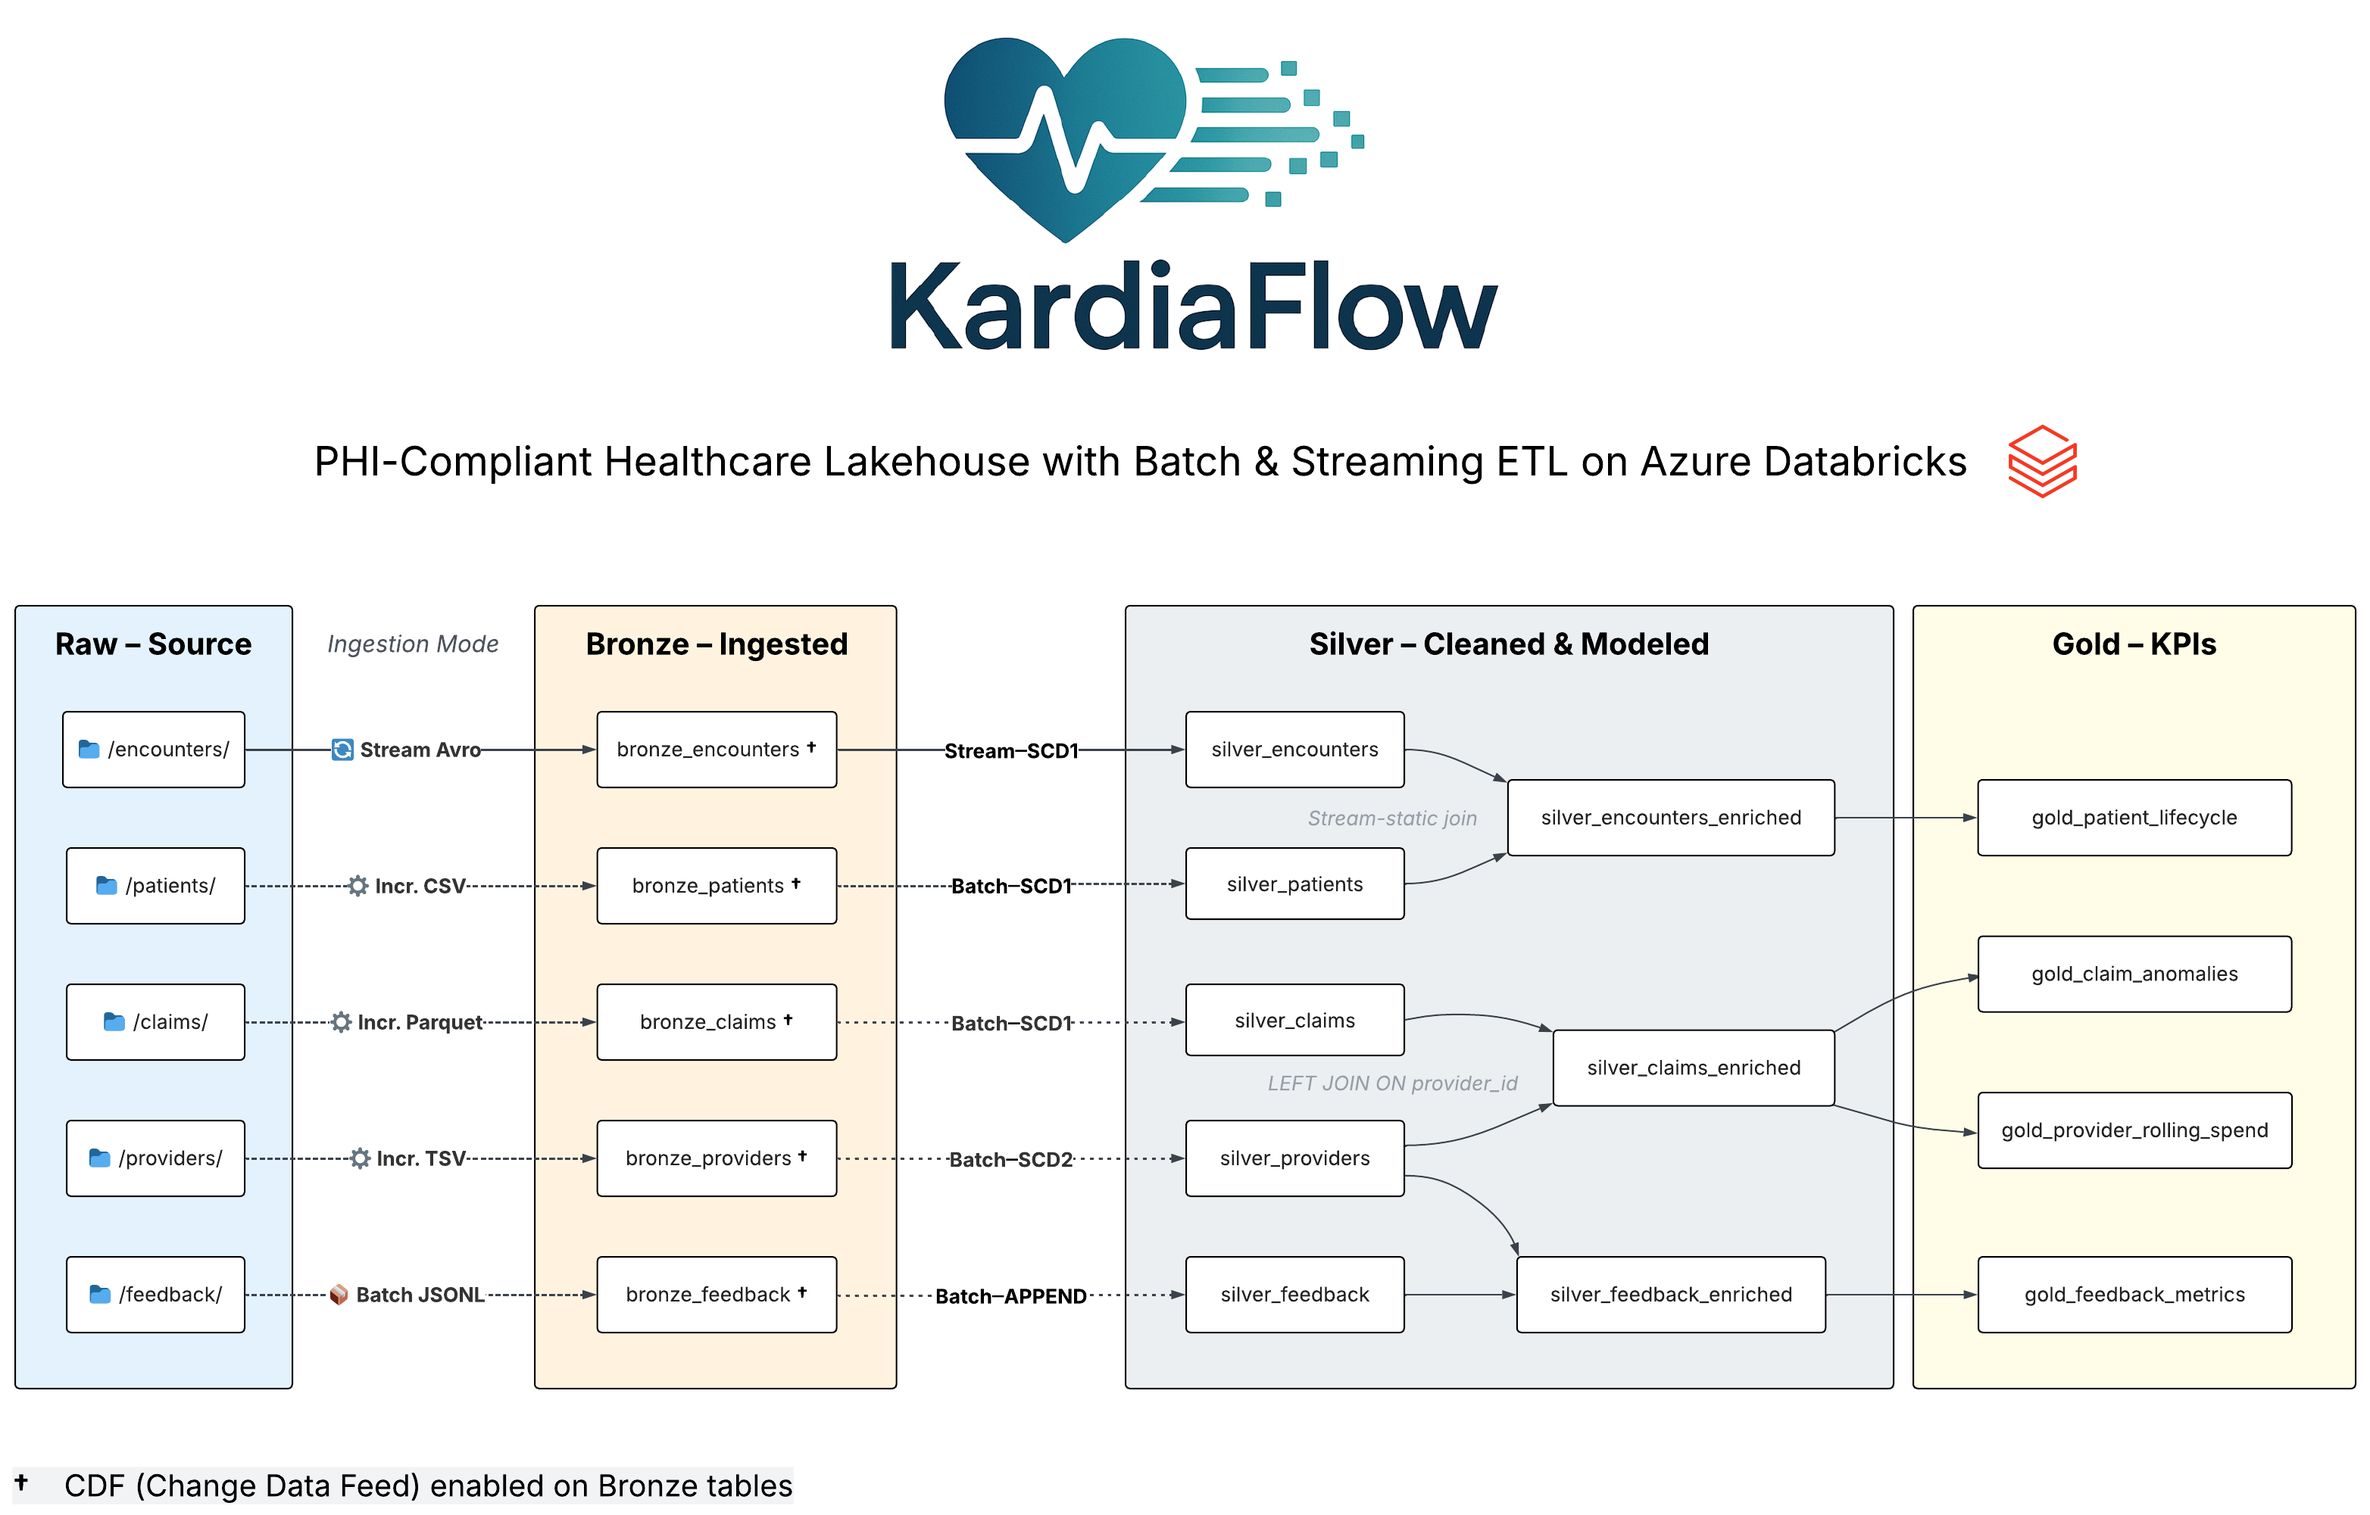
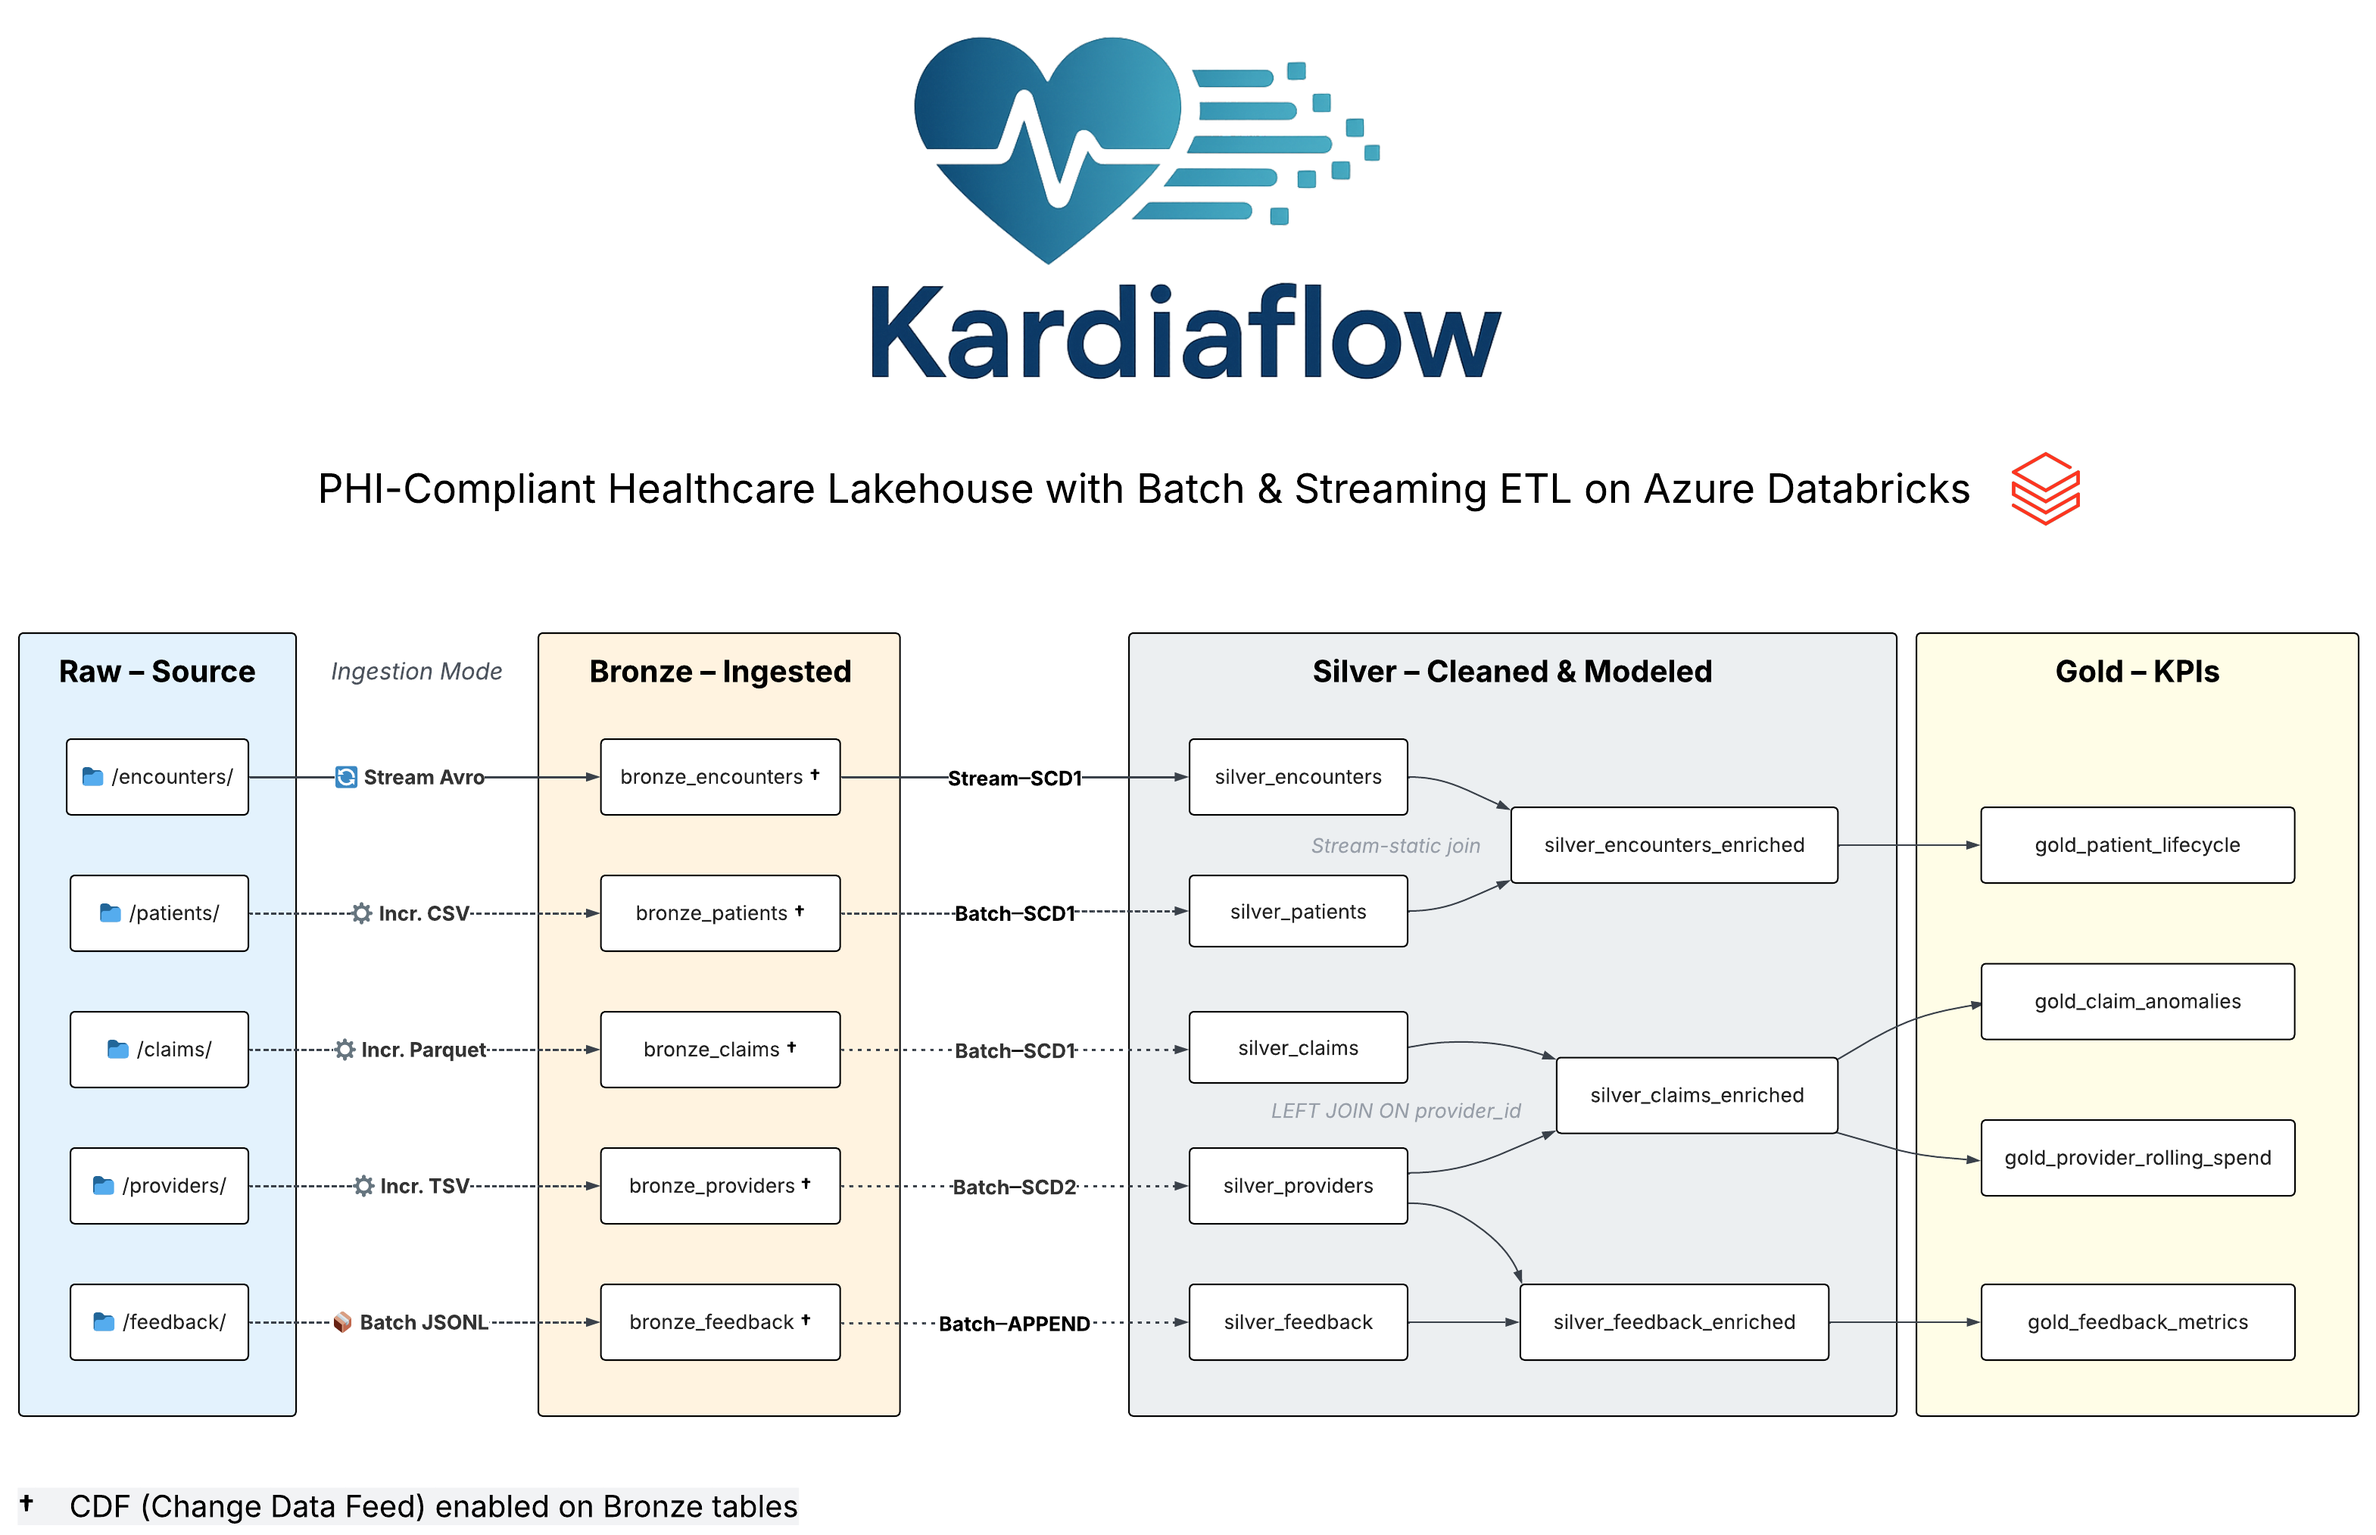
Change name from KardiaFlow to Kardiaflow

diff --git a/docs/CHANGELOG.md b/docs/CHANGELOG.md
@@ -1,4 +1,4 @@
-# KardiaFlow Project — Changelog
+# Kardiaflow Project — Changelog
 
 ## 2025-07-23
 
@@ -11,7 +11,7 @@ badges, trust scores, freshness labels).
 The specification outlines QF’s goals, architecture (Evidence Bundle + Proof Indicators),
 implementation phases, and metadata schema (e.g., `dq_score`, `fingerprint`, `masked_fields`).
 
-This marks the beginning of integrating PoD into KardiaFlow as a first-class trust communication layer.
+This marks the beginning of integrating PoD into Kardiaflow as a first-class trust communication layer.
 
 Refactory notebook directory. Each Medallion layer now has its own folder, with pipeline
 folders within each layer.
@@ -146,7 +146,7 @@ on ClaimID, and moved the merge logic into a clean upsert_to_silver function.
 ## 2025-07-15
 
 Implemented and validated the full Silver and Gold layers of the claims and providers
-pipeline in KardiaFlow. The Silver layer includes a Type-1 upsert for claims using CDF
+pipeline in Kardiaflow. The Silver layer includes a Type-1 upsert for claims using CDF
 and a Type-2 SCD merge for providers to preserve history.
 
 Added three Gold tables using a SQL-based notebook. The hourly Claims table aggregates
@@ -371,7 +371,7 @@ The patients + encounters pipeline now matches the intended design and is fully 
 
 ## 2025-06-29
 
-Completed the patients branch of the KardiaFlow pipeline.  
+Completed the patients branch of the Kardiaflow pipeline.  
 * Created dedicated landing folders (`dbfs:/kardia/raw/patients/`, `…/encounters/`) plus shared roots for schema tracking (`/kardia/_schemas/`) and stream checkpoints (`/kardia/_checkpoints/`).  
 * Added a 10-row smoke test file.
 * Implemented an Auto Loader Bronze stream with a fixed `StructType`, schema-drift tracking, and `delta.
@@ -404,7 +404,7 @@ dashboarding.
 
 Raw -> Gold View Pipeline Complete (in local Dev)
 
-Today we finalized the KardiaFlow architecture, integrating batch and streaming
+Today we finalized the Kardiaflow architecture, integrating batch and streaming
 PHI-compliant ETL paths and clarifying ingestion options like Auto Loader and
 COPY INTO. We validated a raw 100-row CSV, ingested it into a Bronze Delta
 table with Change Data Feed enabled, then transformed it to a schema-enforced,
@@ -415,7 +415,7 @@ runs seamlessly in both local and Databricks environments.
 
 ## 2025-06-22
 
-Completed Phase 1 and began Phase 2 of KardiaFlow by deploying safe,
+Completed Phase 1 and began Phase 2 of Kardiaflow by deploying safe,
 cost-controlled infrastructure and validating an initial data pipeline run.
 Used `deploy.bicep` to provision Azure Databricks (public-only, no VNet),
 Key Vault (soft-delete enabled, purge protection off), and Azure Data Factory.
@@ -441,7 +441,7 @@ fast iteration, and teardown-safe development.
 
 After uncovering substantial and silently accumulating costs tied to ADLS Gen2
 transaction billing, NAT Gateway persistence, and unremovable infrastructure
-triggered by Unity Catalog's Access Connector, the KardiaFlow environment
+triggered by Unity Catalog's Access Connector, the Kardiaflow environment
 (`kardiaflow-rg`) was systematically dismantled. Despite having Owner-level
 permissions, key resources remained locked behind deny assignments automatically
 applied during Unity Catalog provisioning. This prevented deletion of the
@@ -559,7 +559,7 @@ Performance-wise, the script successfully ingested over **133,000** patient reco
 
 ## 2025-05-29
 
-Today marked the foundational setup of the KardiaFlow project’s infrastructure and datasets. An Azure account was created and provisioned with both **Azure Data Factory** and **Azure Databricks**, using the East US region to avoid quota limitations. These services will form the backbone of our orchestration and transformation layers.
+Today marked the foundational setup of the Kardiaflow project’s infrastructure and datasets. An Azure account was created and provisioned with both **Azure Data Factory** and **Azure Databricks**, using the East US region to avoid quota limitations. These services will form the backbone of our orchestration and transformation layers.
 
 Simultaneously, the local development environment was established using Docker containers for **PostgreSQL**, **MongoDB**, **Oracle XE**, and **SQL Server**. Each of these databases was configured to simulate realistic hybrid healthcare systems, and connection scripts were written in Python to validate access to all services. These scripts were organized under `automation/db_checks/`, and results were logged to `docs/environment_check.md`.
 

diff --git a/docs/POSTMORTEM.md b/docs/POSTMORTEM.md
@@ -2,7 +2,7 @@
 
 ## Incident Summary
 
-In May 2025, an early version of the KardiaFlow project was deployed to Azure as part of a simulated healthcare data engineering pipeline. This version provisioned persistent infrastructure including Azure Data Lake Storage Gen2 (ADLS), Azure Data Factory (ADF), Databricks, and network-bound services such as a Self-Hosted Integration Runtime (SHIR). 
+In May 2025, an early version of the Kardiaflow project was deployed to Azure as part of a simulated healthcare data engineering pipeline. This version provisioned persistent infrastructure including Azure Data Lake Storage Gen2 (ADLS), Azure Data Factory (ADF), Databricks, and network-bound services such as a Self-Hosted Integration Runtime (SHIR). 
 
 Over the course of several development iterations, the project accrued over **$250 USD in unexpected Azure charges**—despite only handling synthetic CSV files and running short-term tests.
 
@@ -42,13 +42,13 @@ Over the course of several development iterations, the project accrued over **$2
 
 I destroyed all existing RGs and terminated the Azure subscription to prevent further leakage. I saved all scripts and synthetic datasets locally. A new Azure subscription was created with zero resources provisioned.
 
-I then rearchitected KardiaFlow from the ground up with **cost hygiene and teardown safety as first-class goals**.
+I then rearchitected Kardiaflow from the ground up with **cost hygiene and teardown safety as first-class goals**.
 
 ---
 
 ## Redesign Strategy: “Safe Mode Data Engineering”
 
-The new KardiaFlow project is designed around several non-negotiable constraints:
+The new Kardiaflow project is designed around several non-negotiable constraints:
 
 | Constraint                        | Implementation                                                                 |
 |----------------------------------|--------------------------------------------------------------------------------|
@@ -67,7 +67,7 @@ The new KardiaFlow project is designed around several non-negotiable constraints
 
 This postmortem and the resulting architecture show not just the ability to build data engineering systems—but the ability to run them safely in cloud environments where **cost is a risk surface**.
 
-KardiaFlow now simulates:
+Kardiaflow now simulates:
 - Healthcare-grade ingestion and PHI masking
 - Full infra-as-code provisioning
 - Safe teardown

diff --git a/README.md b/README.md
@@ -1,8 +1,8 @@
-# KardiaFlow: Azure-Based Healthcare Data Platform
+# Kardiaflow: Azure-Based Healthcare Data Platform
 
 ## Scenario
 
-KardiaFlow simulates a real-world healthcare data platform built on Azure Databricks and Delta Lake. It demonstrates a modular, streaming-capable ETL architecture that handles structured (CSV, Avro, TSV) and semi-structured (JSON) healthcare datasets using a medallion design pattern.
+Kardiaflow simulates a real-world healthcare data platform built on Azure Databricks and Delta Lake. It demonstrates a modular, streaming-capable ETL architecture that handles structured (CSV, Avro, TSV) and semi-structured (JSON) healthcare datasets using a medallion design pattern.
 
 The pipeline ingests raw files into Bronze Delta tables using Auto Loader, applies data masking and CDC logic in the Silver layer with Delta Change Data Feed (CDF), and materializes analytics-ready Gold views for reporting and dashboards.
 
@@ -10,7 +10,7 @@ The pipeline ingests raw files into Bronze Delta tables using Auto Loader, appli
 
 The following diagram illustrates the end-to-end data flow across ingestion, transformation, validation, and secure storage:
 
-![KardiaFlow Architecture](https://raw.githubusercontent.com/okv627/KardiaFlow/master/docs/assets/kflow_lineage.png?v=2)
+![Kardiaflow Architecture](https://raw.githubusercontent.com/okv627/Kardiaflow/master/docs/assets/kflow_lineage.png?v=2)
 
 ### Data Sources
 

diff --git a/infra/README.md b/infra/README.md
@@ -1,7 +1,7 @@
-# KardiaFlow Infrastructure Deployment Guide
+# Kardiaflow Infrastructure Deployment Guide
 
 This folder contains the infrastructure-as-code (IaC) scripts for deploying and
-tearing down the minimal KardiaFlow development environment in Azure using Bicep
+tearing down the minimal Kardiaflow development environment in Azure using Bicep
 and the Azure CLI.
 
 ---

diff --git a/notebooks/README.md b/notebooks/README.md
@@ -1,4 +1,4 @@
-# KardiaFlow: Unified Health Data Pipeline
+# Kardiaflow: Unified Health Data Pipeline
 
 This project ingests synthetic healthcare data into a Databricks Lakehouse using **Delta Lake**, **Auto Loader**, and a scalable **medallion architecture** (Bronze → Silver → Gold). It supports two core domains:
 

diff --git a/docs/data_dictionary.md b/docs/data_dictionary.md
@@ -1,4 +1,4 @@
-# Data Dictionary: KardiaFlow Synthetic Healthcare Dataset
+# Data Dictionary: Kardiaflow Synthetic Healthcare Dataset
 
 ## Source Files
 
